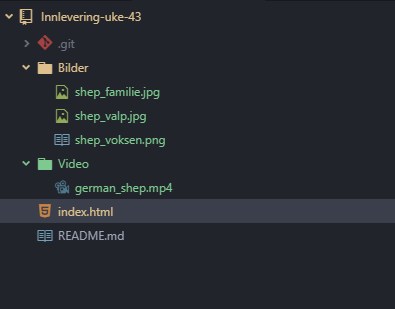
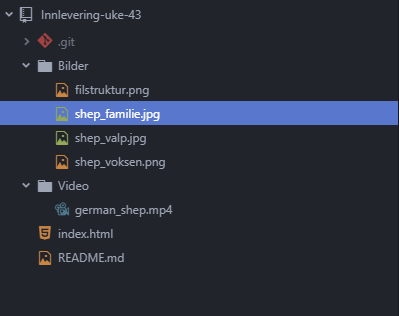
lagt til starten av sammendraget

Changed region(s): [[0.0, 0.2621, 1.0, 0.8447], [0.0, 0.0291, 0.3646, 0.2621]]

diff --git a/index.html b/index.html
@@ -1,12 +1,24 @@
 <!doctype html>
 <html>
-
+//<!-- TODO: Leg til kommentarer -->
 <head>
 	<meta charset="utf-8">
 	<title>Kap.4</title>
 </head>
 
-<body bgcolor>
+<body>
+	<h2>Kapittel 4</h2>
+	<p>
+		Internett er et nettverk av nettverk. For at de forskjellige datamaskinene skal kunne bli koblet sammen må de bruke de samme «spille reglene» disse reglene kalles protokoller. Uten disse reglene kan ikke maskinene forstå hverandre.<br><br>
+
+		For å få et internett så må vi ha flere nettverk. Definasjonen på et nettverk er minimum 2 maskiner som er kobblet sammen. Når vi så kobler flere slike nettverk sammen, vil vi få internett.<br><br>
+
+		I internettet finnes det forskjellige typer brukere.  Det fins klienter som er de som bruker nettet. Også har du tjenere. Det er de som har informasjonen til nettsidene du ønsker å besøke. Vi har også noe som heter dns tjenere. Disse tjenerne lagrer informasjonen om hvordan man skal kobble seg til de andre tjenerene når vi skal for eksempel gå på facebook. De tar imot informasjonen du sender inn «facebook.com» også sender den tilbake ip addressen til denne serveren. Slik at du kan koble deg til denne serveren. Den har også litt informasjon om hva slags kode språk nettsiden bruker.<br><br>
+
+		I tillegg har vi noe som heter TCP. Dette er en protokoll som sier hvordan informasjonen mellom klienter og tjenere skal bli håndtert og sendt. For når klienter og tjenere snakker sammen blir det sendt pakker mellom dem. Er det snakk om mye informasjon vil pakkene som regel bli delt opp i flere mindre pakker. Da må alle pakkene inneholde informasjonen om hvordan de skal bli satt sammen igjen når de kommer tilbake til klienten. Slik at klienten kan få opp nettsiden og dens innhold på riktig måte. //<!-- TODO: skriv om HTTP og lokalhost -->
+	</p>
+
+
 	<p>Top 3 farger</p>
 	<ol>
 		<li>Rød</li>
@@ -48,14 +60,15 @@
 	</table>
 
 	<br>
-
-	<img src="Bilder/shep_valp.jpg" alt="Sjefer Valp" width="200" height="200">
-	<img src="Bilder/shep_familie.jpg" alt="Sjefer Familie" width="200" height="200">
-	<img src="Bilder/shep_voksen.png" alt="Voksen Sjefer" width="200" height="200">
-	<img src="" alt="" width="200" height="200">
+	<p>Noen bilder av Schæfere</p>
+	<img src="Bilder/shep_valp.jpg" alt="Sjefer Valp" width="300" height="300">
+	<img src="Bilder/shep_familie.jpg" alt="Sjefer Familie" width="300" height="300">
+	<img src="Bilder/shep_voksen.png" alt="Voksen Sjefer" width="300" height="300">
+	<img src="Bilder/filstruktur.png" alt="filstruktur"	width="300" height="300">
 
 	<br>
-	<video width="500" height="500" controls>
+	<p>Morsomme klipps av Schæfere</p>
+	<video width="700" height="500" controls>
 		<source src="Video/german_shep.mp4"	type="video/mp4">
 		Din nettleser støtter ikke video-elementet.
 	</video>
@@ -63,6 +76,16 @@
 	<br>
 
 	<a href="https://www.ntnu.no" target="_blank">NTNU</a>
+
+	<form method="GET">
+		<p>Ditt navn</p>
+		<input type="text" name="navn">
+		<p>Din favoritt hunderase</p>
+		<input type="text" name="hunderase">
+
+		<input type="submit" name="sendinn" value="Send inn">
+
+	</form>
 </body>
 
 </html>
